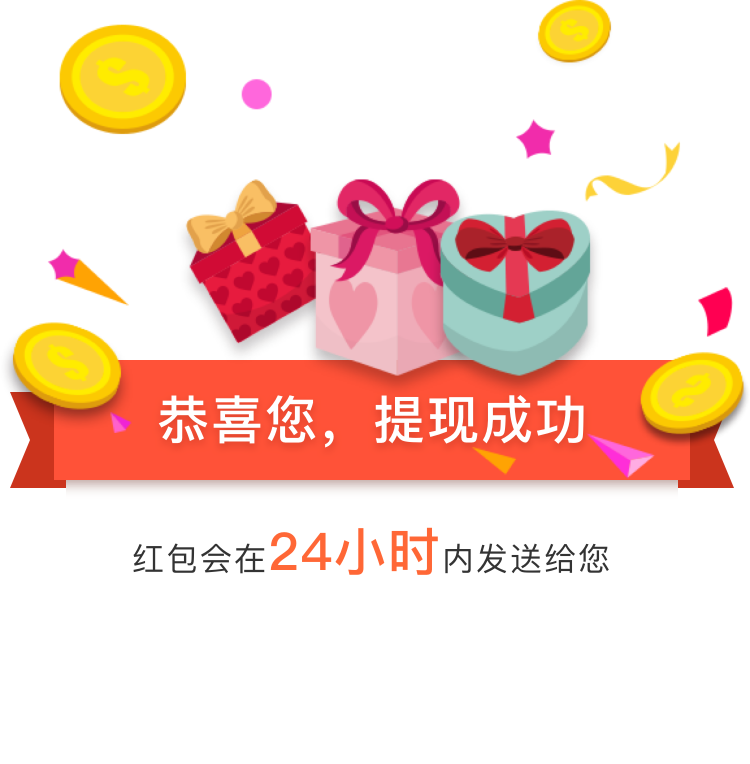
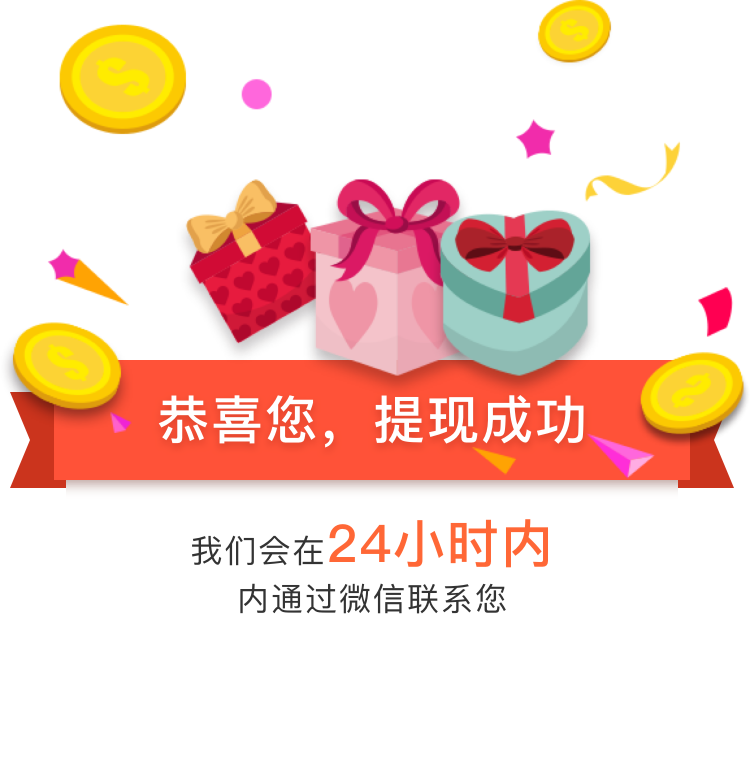
1

diff --git a/packages/html/project/public_account_new1/news_info_partaked.html b/packages/html/project/public_account_new1/news_info_partaked.html
@@ -9,14 +9,10 @@
     <script src="./js/EventEmitter.min.js"></script>
     <script src="./js/art-template.js"></script>
     <script src="./js/jf.js"></script>
-    <script src="https://gw.alipayobjects.com/os/lib/lottie-web/5.5.6/build/player/lottie.min.js"></script>
     <link href="./css/index.css" rel="stylesheet" type="text/css"/>
 </head>
 <body>
 <div>
-    <div style="height: 0.76rem;">
-        <img src="./img/hbts.png" style="height: 0.76rem;width: 100vw;padding:0;margin: 0;vertical-align: sub">
-    </div>
     <div style="padding: 0.32rem;padding-bottom: 1.2rem">
         <div id="title" style="color: #333333;font-size: 24px;font-weight: bolder;text-align: justify"></div>
         <!--文章内容-->
@@ -34,26 +30,25 @@
 
         <div id="dataList" style="padding-bottom: 1rem"></div>
 
-        <div id="dynamicEffect" style="position: fixed;bottom: 0rem;width: 100%;left: 0;text-align: center">
-        </div>
+
         <!--广告-->
         <div class="container" style="padding-bottom: 3%;margin-top:0vh">
             <!--单图-->
             <script id="ad-template-info" type="text/html">
                 <div class="ad-template-info"
                      style="display: flex;justify-content: space-between;height: 1.86rem;margin-top: 0.24rem"
-                     onclick="Ad.adClick({{clickUrl}},{{dUrl}},{{pid}},1,getParam('from_user_id'))">
+                     onclick="Ad.adClick({{clickUrl}},{{dUrl}},{{pid}},1,getParam('from_user_id'),{{page}})">
                     <div style="width: 65%">
                         <div class="line-two"
                              style="font-size: 16px;color: #333333;font-weight: bolder;line-height: 0.44rem;">
                             {{ title }}
                         </div>
-                        <div style="display: flex;justify-content: space-between;margin-top: 0.28rem">
-                        <span style="color: rgba(255, 66, 55, 1);font-size: 14px;">
-                            <img src="./img/xhb.png"
-                                 style="margin-top: -0.04rem;margin-right: 0.06rem;width: 0.28rem;height: 0.28rem"><span>分享好友得1元红包</span>
+                        <div style="display: flex;justify-content: space-between;margin-top: 0.28rem;color: rgba(153, 153, 153, 1)">
+                        <span style="color: rgba(153, 153, 153, 1)!important;font-size: 14px;">
+                            <img src="./img/eye.png"
+                                 style="margin-top: -0.04rem;margin-right: 0.06rem;width: 0.28rem;height: 0.28rem;"><span>{{ readNum }}次观看</span>
                         </span>
-                            <img src="./img/fxzq.png" style="height: 0.34rem;">
+                            {{date}}
                         </div>
                     </div>
                     <div style="width: 2rem;height: 1.6rem;padding-right: 0rem;line-height: 1.4rem">
@@ -65,7 +60,7 @@
             <!--三图-->
             <script id="ad-template-3img" type="text/html">
                 <div class="ad-template-3img" style="padding: 0.24rem 0"
-                     onclick="Ad.adClick({{clickUrl}},{{dUrl}},{{pid}},2,getParam('from_user_id'))">
+                     onclick="Ad.adClick({{clickUrl}},{{dUrl}},{{pid}},2,getParam('from_user_id'),{{page}})">
                     <div class="line-two"
                          style="padding: 0 0rem;font-weight: bolder;line-height: 0.44rem;color: #333;font-size: 16px!important;">
                         {{ title }}
@@ -75,12 +70,12 @@
                         <img style="height: 1.4rem;border-radius: 4px;" src="{{value}}" alt="">
                         {{ /each    }}
                     </div>
-                    <div style="display: flex;justify-content: space-between;margin-top: 0.14rem;padding: 0 0rem">
-                    <span style="color: rgba(255, 66, 55, 1);font-size: 14px;">
-                        <img src="./img/xhb.png"
-                             style="margin-top: 0rem;margin-right: 0rem;width: 0.28rem;height: 0.28rem"><span>分享好友得1元红包</span>
+                    <div style="display: flex;justify-content: space-between;margin-top: 0.14rem;padding: 0 0rem;color: rgba(153, 153, 153, 1)">
+                    <span style="color: rgba(153, 153, 153, 1);font-size: 14px;">
+                        <img src="./img/eye.png"
+                             style="margin-top: -0.04rem;margin-right: 0.06rem;width: 0.28rem;height: 0.28rem"><span>{{ readNum }}次观看</span>
                     </span>
-                        <img src="./img/fxzq.png" style="height: 0.34rem;">
+                        {{date}}
                     </div>
                 </div>
 
@@ -89,7 +84,7 @@
             <!--大图-->
             <script id="ad-template-info-big" type="text/html">
                 <div class="ad-template-info-big" style="padding: 0.24rem 0"
-                     onclick="Ad.adClick({{clickUrl}},{{dUrl}},{{pid}},3,getParam('from_user_id'))">
+                     onclick="Ad.adClick({{clickUrl}},{{dUrl}},{{pid}},3,getParam('from_user_id'),{{page}})">
                     <div class="line-two"
                          style="padding: 0 0rem;font-weight: bolder;line-height: 0.44rem;color: #333;font-size: 16px!important;">
                         {{ title }}
@@ -97,12 +92,12 @@
                     <div style="display: flex;justify-content: space-between;padding: 0 0rem;margin-top: 0.2rem">
                         <img style="height: 4.56rem;width: 100%;border-radius: 4px;" src="{{srcUrls[0]}}" alt="">
                     </div>
-                    <div style="display: flex;justify-content: space-between;margin-top: 0.28rem;padding: 0 0rem">
-                    <span style="color: rgba(255, 66, 55, 1);font-size: 14px;">
-                        <img src="./img/xhb.png"
-                             style="margin-top: -0.05rem;margin-right: 0.08rem;width: 0.28rem;height: 0.28rem"><span>分享好友得1元红包</span>
+                    <div style="display: flex;justify-content: space-between;margin-top: 0.28rem;padding: 0 0rem;color: rgba(153, 153, 153, 1)">
+                    <span style="color: rgba(153, 153, 153, 1);font-size: 14px;">
+                        <img src="./img/eye.png"
+                             style="margin-top: -0.05rem;margin-right: 0.08rem;width: 0.28rem;height: 0.28rem"><span>{{ readNum }}次观看</span>
                     </span>
-                        <img src="./img/fxzq.png" style="height: 0.34rem;">
+                        {{date}}
                     </div>
                 </div>
                 <div style="height: 1px;background: #EEEEEE;width: 94vw;"></div>
@@ -131,16 +126,6 @@
         $('#openAll').hide()
     }
 
-    var anim = lottie.loadAnimation({
-        container: document.getElementById("dynamicEffect"), // 容器
-        renderer: "svg",
-        loop: true,
-        autoplay: true,
-        // animationData: {}, //如果使用的是JSON
-        path:
-            "https://assets6.lottiefiles.com/packages/lf20_qbxtcy2r.json" // the path to the animation json
-    });
-
     var adListIndex = 0;
     var adList = [];
     var deny_cids = []; // 被禁止的创意广告id
@@ -151,7 +136,7 @@
     getAds()
 
     function getAds () {
-        commonGet('/adverts?page=' + page.num + '&per_page=' + page.size + '', function (res) {
+        commonGet('/adverts?page_type=7&page=' + page.num + '&per_page=' + page.size + '', function (res) {
             if (res.code == 200) {
                 adList = res.data
                 maxPgae = res.meta.last_page

diff --git a/packages/html/project/public_account_new1/xxl.html b/packages/html/project/public_account_new1/xxl.html
@@ -20,18 +20,18 @@
             <script id="ad-template-info" type="text/html">
                 <div class="ad-template-info"
                      style="display: flex;justify-content: space-between;height: 1.86rem;margin-top: 0.24rem"
-                     onclick="Ad.adClick({{clickUrl}},{{dUrl}},{{pid}},1,getParam('from_user_id'))">
+                     onclick="Ad.adClick({{clickUrl}},{{dUrl}},{{pid}},1,getParam('from_user_id'),{{page}})">
                     <div style="width: 65%">
                         <div class="line-two"
                              style="font-size: 16px;color: #333333;font-weight: bolder;line-height: 0.44rem;">
                             {{ title }}
                         </div>
-                        <div style="display: flex;justify-content: space-between;margin-top: 0.28rem">
-                        <span style="color: rgba(255, 66, 55, 1);font-size: 14px;">
-                            <img src="./img/xhb.png"
-                                 style="margin-top: -0.04rem;margin-right: 0.06rem;width: 0.28rem;height: 0.28rem"><span>分享好友得1元红包</span>
+                        <div style="display: flex;justify-content: space-between;margin-top: 0.28rem;color: rgba(153, 153, 153, 1)">
+                        <span style="color: rgba(153, 153, 153, 1)!important;font-size: 14px;">
+                            <img src="./img/eye.png"
+                                 style="margin-top: -0.04rem;margin-right: 0.06rem;width: 0.28rem;height: 0.28rem;"><span>{{ readNum }}次观看</span>
                         </span>
-                            <img src="./img/fxzq.png" style="height: 0.34rem;">
+                            {{date}}
                         </div>
                     </div>
                     <div style="width: 2rem;height: 1.6rem;padding-right: 0rem;line-height: 1.4rem">
@@ -43,7 +43,7 @@
             <!--三图-->
             <script id="ad-template-3img" type="text/html">
                 <div class="ad-template-3img" style="padding: 0.24rem 0"
-                     onclick="Ad.adClick({{clickUrl}},{{dUrl}},{{pid}},2,getParam('from_user_id'))">
+                     onclick="Ad.adClick({{clickUrl}},{{dUrl}},{{pid}},2,getParam('from_user_id'),{{page}})">
                     <div class="line-two"
                          style="padding: 0 0rem;font-weight: bolder;line-height: 0.44rem;color: #333;font-size: 16px!important;">
                         {{ title }}
@@ -53,12 +53,12 @@
                         <img style="height: 1.4rem;border-radius: 4px;" src="{{value}}" alt="">
                         {{ /each    }}
                     </div>
-                    <div style="display: flex;justify-content: space-between;margin-top: 0.14rem;padding: 0 0rem">
-                    <span style="color: rgba(255, 66, 55, 1);font-size: 14px;">
-                        <img src="./img/xhb.png"
-                             style="margin-top: 0rem;margin-right: 0rem;width: 0.28rem;height: 0.28rem"><span>分享好友得1元红包</span>
+                    <div style="display: flex;justify-content: space-between;margin-top: 0.14rem;padding: 0 0rem;color: rgba(153, 153, 153, 1)">
+                    <span style="color: rgba(153, 153, 153, 1);font-size: 14px;">
+                        <img src="./img/eye.png"
+                             style="margin-top: -0.04rem;margin-right: 0.06rem;width: 0.28rem;height: 0.28rem"><span>{{ readNum }}次观看</span>
                     </span>
-                        <img src="./img/fxzq.png" style="height: 0.34rem;">
+                        {{date}}
                     </div>
                 </div>
 
@@ -67,7 +67,7 @@
             <!--大图-->
             <script id="ad-template-info-big" type="text/html">
                 <div class="ad-template-info-big" style="padding: 0.24rem 0"
-                     onclick="Ad.adClick({{clickUrl}},{{dUrl}},{{pid}},3,getParam('from_user_id'))">
+                     onclick="Ad.adClick({{clickUrl}},{{dUrl}},{{pid}},3,getParam('from_user_id'),{{page}})">
                     <div class="line-two"
                          style="padding: 0 0rem;font-weight: bolder;line-height: 0.44rem;color: #333;font-size: 16px!important;">
                         {{ title }}
@@ -75,12 +75,12 @@
                     <div style="display: flex;justify-content: space-between;padding: 0 0rem;margin-top: 0.2rem">
                         <img style="height: 4.56rem;width: 100%;border-radius: 4px;" src="{{srcUrls[0]}}" alt="">
                     </div>
-                    <div style="display: flex;justify-content: space-between;margin-top: 0.28rem;padding: 0 0rem">
-                    <span style="color: rgba(255, 66, 55, 1);font-size: 14px;">
-                        <img src="./img/xhb.png"
-                             style="margin-top: -0.05rem;margin-right: 0.08rem;width: 0.28rem;height: 0.28rem"><span>分享好友得1元红包</span>
+                    <div style="display: flex;justify-content: space-between;margin-top: 0.28rem;padding: 0 0rem;color: rgba(153, 153, 153, 1)">
+                    <span style="color: rgba(153, 153, 153, 1);font-size: 14px;">
+                        <img src="./img/eye.png"
+                             style="margin-top: -0.05rem;margin-right: 0.08rem;width: 0.28rem;height: 0.28rem"><span>{{ readNum }}次观看</span>
                     </span>
-                        <img src="./img/fxzq.png" style="height: 0.34rem;">
+                        {{date}}
                     </div>
                 </div>
                 <div style="height: 1px;background: #EEEEEE;width: 94vw;"></div>
@@ -101,7 +101,7 @@
     getAds()
 
     function getAds () {
-        commonGet('/adverts?page=' + page.num + '&per_page=' + page.size + '', function (res) {
+        commonGet('/adverts?page_type=1&page=' + page.num + '&per_page=' + page.size + '', function (res) {
             if (res.code == 200) {
                 adList = res.data
                 maxPgae = res.meta.last_page

diff --git a/packages/html/project/public_account_new1/news_info.html b/packages/html/project/public_account_new1/news_info.html
@@ -14,9 +14,9 @@
 </head>
 <body>
 <div>
-    <div style="height: 0.76rem;position: relative">
+    <div style="height: 0.76rem;position: relative;line-height: 0.76rem">
         <img src="./img/hbts.png" style="height: 0.76rem;width: 100vw;padding:0;margin: 0;vertical-align: sub;position: absolute;top: 0;left: 0">
-        <span id="tsText" style="position: absolute;left: 0.82rem;top: 0.15rem;color: rgba(255, 56, 56, 1);font-size: 16px"></span>
+        <span id="tsText" style="position: absolute;left: 0.82rem;color: rgba(255, 56, 56, 1);font-size: 16px"></span>
     </div>
     <div style="padding: 0.32rem;padding-bottom: 1.2rem">
         <div id="title" style="color: #333333;font-size: 24px;font-weight: bolder;text-align: justify"></div>
@@ -43,7 +43,7 @@
             <script id="ad-template-info" type="text/html">
                 <div class="ad-template-info"
                      style="display: flex;justify-content: space-between;height: 1.86rem;margin-top: 0.24rem"
-                     onclick="Ad.adClick({{clickUrl}},{{dUrl}},{{pid}},1,getParam('from_user_id'))">
+                     onclick="Ad.adClick({{clickUrl}},{{dUrl}},{{pid}},1,getParam('from_user_id'),{{page}})">
                     <div style="width: 65%">
                         <div class="line-two"
                              style="font-size: 16px;color: #333333;font-weight: bolder;line-height: 0.44rem;">
@@ -66,7 +66,7 @@
             <!--三图-->
             <script id="ad-template-3img" type="text/html">
                 <div class="ad-template-3img" style="padding: 0.24rem 0"
-                     onclick="Ad.adClick({{clickUrl}},{{dUrl}},{{pid}},2,getParam('from_user_id'))">
+                     onclick="Ad.adClick({{clickUrl}},{{dUrl}},{{pid}},2,getParam('from_user_id'),{{page}})">
                     <div class="line-two"
                          style="padding: 0 0rem;font-weight: bolder;line-height: 0.44rem;color: #333;font-size: 16px!important;">
                         {{ title }}
@@ -79,7 +79,7 @@
                     <div style="display: flex;justify-content: space-between;margin-top: 0.14rem;padding: 0 0rem">
                     <span style="color: rgba(255, 66, 55, 1);font-size: 14px;">
                         <img src="./img/xhb.png"
-                             style="margin-top: 0rem;margin-right: 0rem;width: 0.28rem;height: 0.28rem"><span>分享好友得1元红包</span>
+                             style="margin-top: -0.04rem;margin-right: 0.06rem;;width: 0.28rem;height: 0.28rem"><span>分享好友得1元红包</span>
                     </span>
                         <img src="./img/fxzq.png" style="height: 0.34rem;">
                     </div>
@@ -90,7 +90,7 @@
             <!--大图-->
             <script id="ad-template-info-big" type="text/html">
                 <div class="ad-template-info-big" style="padding: 0.24rem 0"
-                     onclick="Ad.adClick({{clickUrl}},{{dUrl}},{{pid}},3,getParam('from_user_id'))">
+                     onclick="Ad.adClick({{clickUrl}},{{dUrl}},{{pid}},3,getParam('from_user_id'),{{page}})">
                     <div class="line-two"
                          style="padding: 0 0rem;font-weight: bolder;line-height: 0.44rem;color: #333;font-size: 16px!important;">
                         {{ title }}
@@ -116,7 +116,6 @@
 <script>
 
     commonGet('/articles/' + getParam('article_id') + '?from_user_id=' + getParam('from_user_id') + '', function (res) {
-        console.log(res)
         if (res.code == 200) {
             $('#title').html(res.data.title)
             $('#content').html(res.data.content)

diff --git a/packages/html/project/public_account_new1/index.html b/packages/html/project/public_account_new1/index.html
@@ -280,10 +280,10 @@
             </div>
         </div>
 
-        <div id="whthDrawSuccess " style="display: none;text-align: center;z-index: 5">
+        <div id="whthDrawSuccess " style="display: block;text-align: center;z-index: 5">
             <div class="mio-modal-mask" style="display: block"></div>
             <div style="position: fixed;top: 35%;left: 50%;transform:translate(-50%,-50%);z-index: 999;background: url('./img/txcg.png');background-repeat: no-repeat;background-size: 100%;
-        background-position: center;width: 95vw;height: 7.46rem;">
+        background-position: center;width: 95vw;height: 7.74rem;">
                 <div onclick="success()" style="border-radius: 8px;line-height: 0.96rem;color: #FFFFFF;font-size: 18px;background: linear-gradient(270deg, #FF8E4D 0%, #FF6565 100%);
         position: absolute;left: 50%;width: 5.48rem;height: 0.96rem;top:6.28rem;margin-left: -2.74rem;">
                     朕知道了
@@ -437,7 +437,6 @@ text-align: center;background-color: rgba(0, 0, 0, 0.8);color: white;line-height
             return
         }
         commonPost('/withdrawals', {amount: obj.withdrawal_amounts[this.obj.moneyIndex]}, function (res) {
-            console.log(res)
             if (res.status == 'error') {
                 $('#whthDrawToast').show()
                 $('#message').html(res.message)
@@ -631,17 +630,16 @@ text-align: center;background-color: rgba(0, 0, 0, 0.8);color: white;line-height
     }
 
     function success() {
-        $('#whthDrawSuccess').hide()
-        setTimeout(() => {
-            $('#withDrawRequire').css('top', $('#withDrawHeight').outerHeight())
-        }, 1)
-
         commonGet('/user', function (res) {
             if (res.code == 200) {
                 userInfos.balance = res.data.balance
                 $('#sumMoney').html(res.data.balance + '<span style="vertical-align: middle;font-size: 0.6rem;color: #FFFFFF;margin-left: 0.2rem;font-weight: bold">元</span>') //后台返回钱数
             }
         }, {'ACT-USER-ID': getParam('user_id')})
+        $('#whthDrawSuccess').hide()
+        setTimeout(() => {
+            $('#withDrawRequire').css('top', $('#withDrawHeight').outerHeight())
+        }, 1)
     }
 </script>
 <script src="./js/ad.js"></script>

diff --git a/packages/html/project/public_account_new1/js/adInfo.js b/packages/html/project/public_account_new1/js/adInfo.js
@@ -72,13 +72,14 @@ var Ad = {
      * clickUrl 点击率接口
      * dUrl 广告落地页url
      */
-    adClick: function(clickUrl, dUrl, pid,type,user_id) {
+    adClick: function(clickUrl, dUrl, pid,type,user_id, page) {
         event.currentTarget.className = 'news_active'
         var ua = navigator.userAgent;
         commonPost('/adClickStat', {
             ua: ua,
             pid:pid,
             type:type,
+            page:page,
             user_id:user_id,
             sign:'bFwbxLAzwd5F4DOPS2hO',
         }, function (res) {
@@ -236,6 +237,7 @@ var Ad = {
                 templateId,
                 $.extend(res, {
                     date: Ad.getDate(), //日期
+                    page: params.page, //日期
                     readNum: Ad.random(100000, 500000) //阅读数
                 })
             );

diff --git a/packages/html/project/public_account_new1/js/ad.js b/packages/html/project/public_account_new1/js/ad.js
@@ -83,7 +83,6 @@ var Ad = {
             page:page,
             sign:'bFwbxLAzwd5F4DOPS2hO',
         }, function (res) {
-            console.log(res)
             if (res.code == 200) {
 
             }
@@ -224,7 +223,6 @@ var Ad = {
      * @param {*} params
      */
     singleAd: function(params, callback) {
-        console.log(params)
         var pid = params.pid,
             templateId = params.adWrapClass,
             // wrapDomId = params.wrapDomId,
